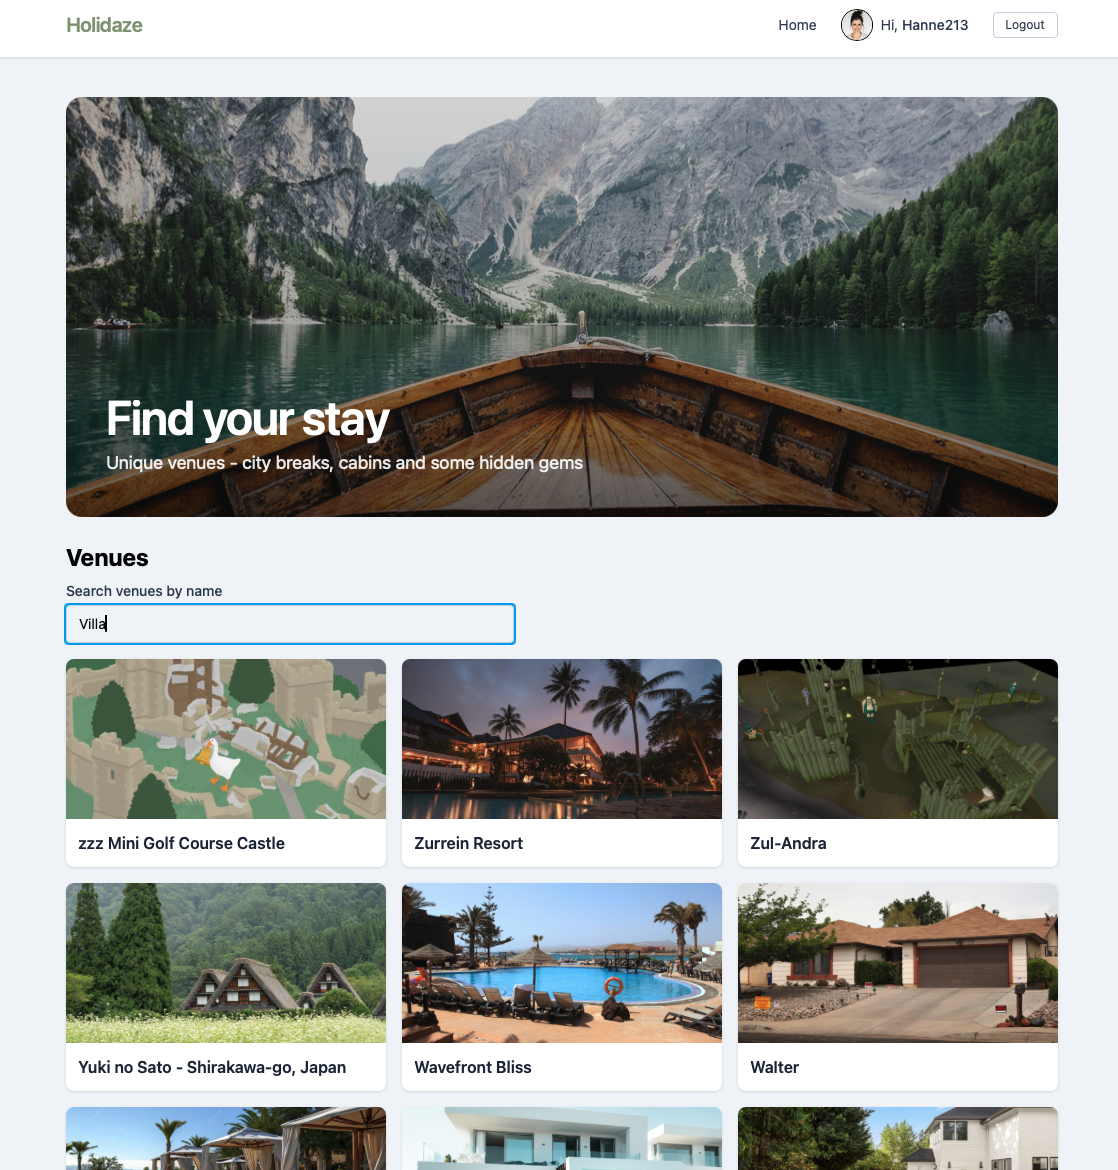
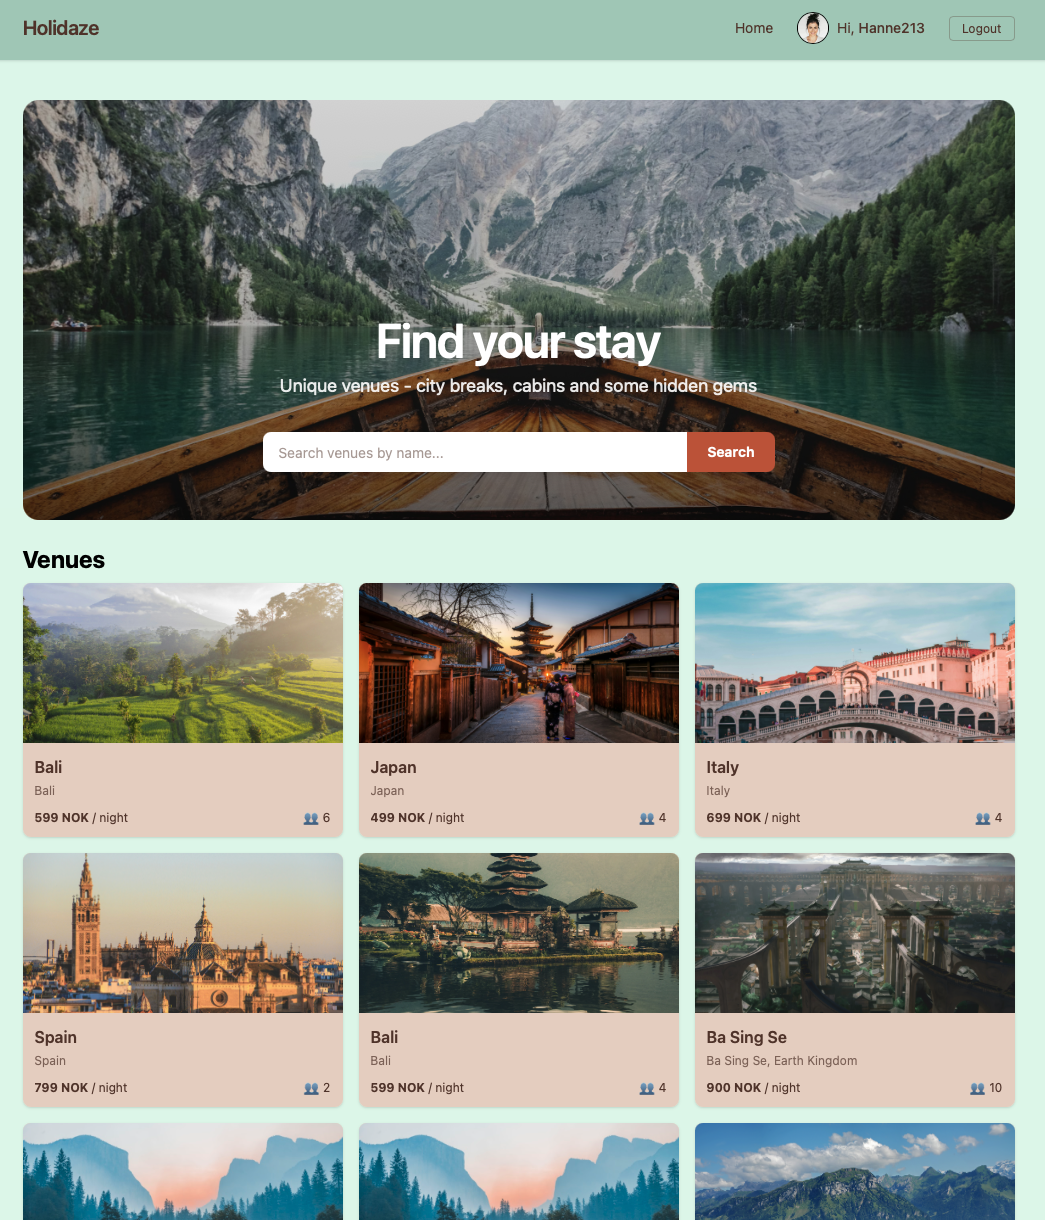
docs: update README with design improvements and new screenshot

diff --git a/README.md b/README.md
@@ -7,7 +7,7 @@ The project demonstrates use of React, API communication, routing and responsive
 
 ## Screenshot
 
-![Holidaze Homepage](./src/assets/holidazehome.png)
+![Holidaze Homepage](./src/assets/screenshot.png)
 
 ## Description
 
@@ -26,13 +26,11 @@ There is also an admin-facing experience for venue managers who can create, upda
 ### Installing
 
 1. Clone the repository:
-
 ```bash
 git clone https://github.com/HanneStray/holidaze-project
 ```
 
 2. install dependencies:
-
 ```bash
 npm install
 ```
@@ -42,7 +40,6 @@ npm install
 This project requires a Noroff API key.
 
 Create a `.env` file in the project root:
-
 ```env
 VITE_NOROFF_API_KEY=your_key_here
 ```
@@ -52,16 +49,38 @@ Do not commit the .env file to GitHub.
 ## Running
 
 To run the app locally:
-
 ```bash
 npm run dev
 ```
 
 ## Build
-
 ```bash
 npm run build
 ```
+
+## Code Review & Improvements
+
+Following feedback received on Project Exam 2, the following improvements were made:
+
+### Bug Fixes & Code Quality
+- Removed all `console.log` and `console.error` statements across the codebase
+- Fixed accessibility issues by adding `htmlFor` and matching `id` attributes to all label/input pairs
+- Replaced `let` with `const` for variables that are never reassigned
+- Replaced string concatenation with template literals
+- Fixed inconsistent return statements in async functions
+- Corrected a typo in `Navbar.jsx` where `JusName` was used instead of `className`
+
+### Documentation
+- Added JSDoc comments to all functions and components across 19 source files
+
+### Design & UX Improvements
+- Applied custom brand color scheme based on original style guide (moss green, sage, terracotta, soft mint)
+- Enhanced venue cards to display price per night, location and guest count
+- Added hero search bar overlaid on the hero image, replacing the separate search input below
+- Added skeleton loaders replacing text "Loading..." for a more polished feel
+- Added toast notifications for successful actions (booking, avatar update, venue create/edit/delete)
+- Added fade-in animations when venue cards load
+- Enhanced footer with navigation links, contact information and social media links
 
 ## Contributing
 
@@ -80,27 +99,7 @@ Email: hanne_stray@hotmail.com
 
 - Gantt chart: https://trello.com/b/HHE2UG8z
 - Design prototype: https://www.figma.com/design/OEVaNEt1LMZp3MQ6nZOViC/Holidaze---prototype?node-id=0-1&t=bCGxvzI2YL8HN4HZ-1
-- Style guide: https://www.figma.com/deck/fvJl1L0jqotzshJpYD8kXz/Project-Exam---Holidaze?node-id=46-115&t=RH6hEE13z2FBy0V9-1
+- Style guide: https://www.figma.com/deck/fvJl1L0jqotzshJpYD8kXz/Project-Exam---Holidaze?node-id=46-115&t=RH6hEG13z2FBy0V9-1
 - Kanban Board: https://trello.com/b/BBOWlxg3
 - Repository: https://github.com/HanneStray/holidaze-project
 - Hosted demo: https://hanneholidazeproject.netlify.app
-
-## Code Review & Improvements
-
-Following feedback received on Project Exam 2, the following improvements were made:
-
-### Bug Fixes & Code Quality
-
-- Removed all `console.log` and `console.error` statements across the codebase
-- Fixed accessibility issues by adding `htmlFor` and matching `id` attributes to all label/input pairs
-- Replaced `let` with `const` for variables that are never reassigned
-- Replaced string concatenation with template literals
-- Fixed inconsistent return statements in async functions
-
-### Documentation
-
-- Added JSDoc comments to all functions and components across 19 source files
-
-### Bonus Fix
-
-- Corrected a typo in `Navbar.jsx` where `JusName` was used instead of `className`
